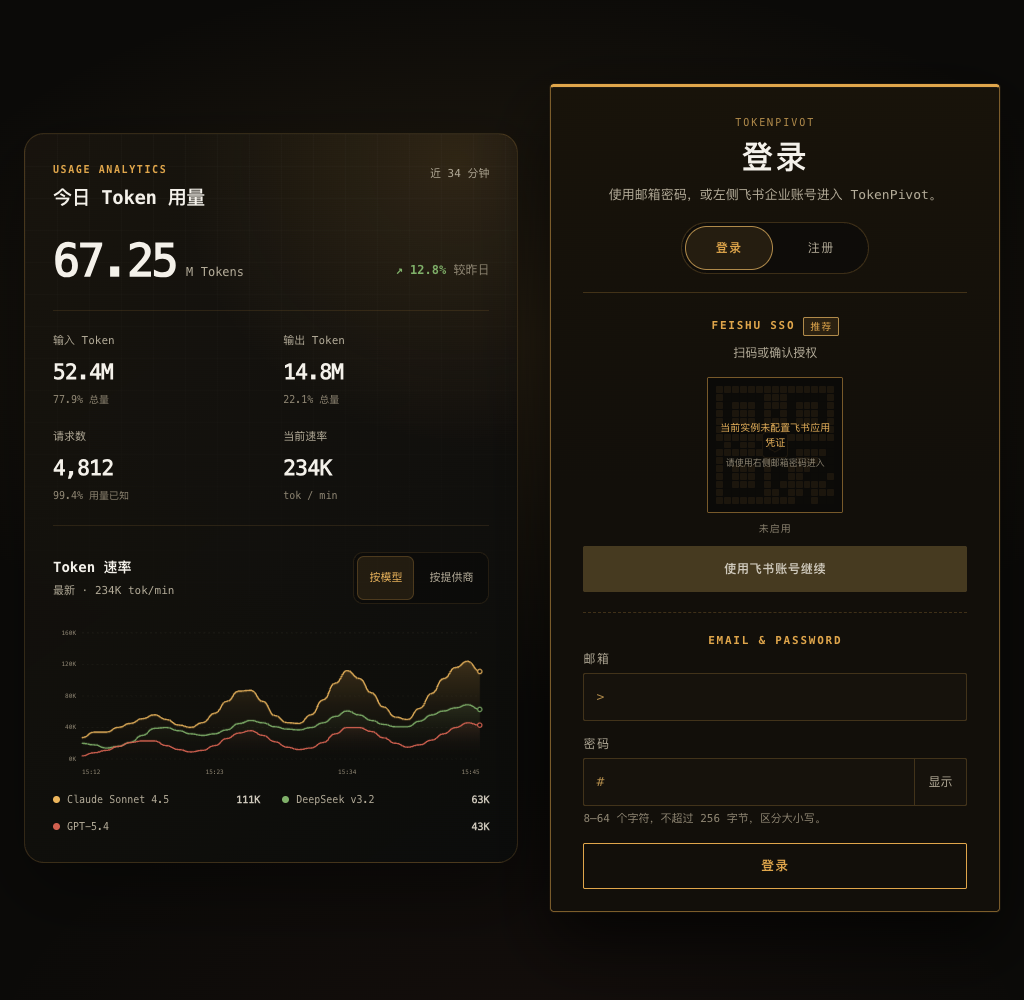
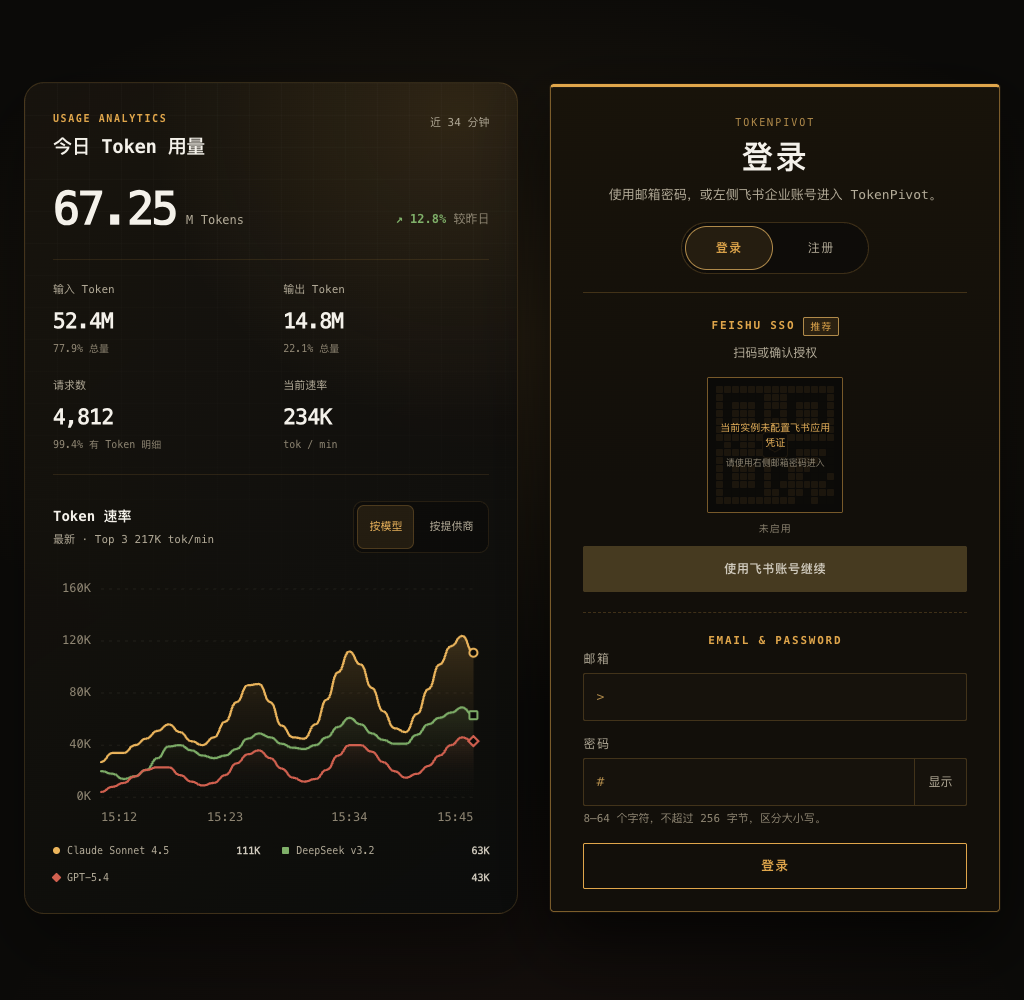
Improve token chart readability and accessibility

diff --git a/web/src/features/auth/auth-dashboard-snapshot.tsx b/web/src/features/auth/auth-dashboard-snapshot.tsx
@@ -1,4 +1,9 @@
-import { useState } from "react";
+import {
+  useEffect,
+  useRef,
+  useState,
+  type KeyboardEvent as ReactKeyboardEvent,
+} from "react";
 
 /** 公开登录页的确定性演示数据，不创建统计或会话请求。 */
 const IN_SERIES: readonly number[] = [
@@ -16,7 +21,7 @@ const TOTAL_SERIES = IN_SERIES.map(
 const METRICS = [
   { label: "输入 Token", value: "52.4M", note: "77.9% 总量" },
   { label: "输出 Token", value: "14.8M", note: "22.1% 总量" },
-  { label: "请求数", value: "4,812", note: "99.4% 用量已知" },
+  { label: "请求数", value: "4,812", note: "99.4% 有 Token 明细" },
   { label: "当前速率", value: "234K", note: "tok / min" },
 ] as const;
 
@@ -56,13 +61,11 @@ const TRENDS: Record<TrendDimension, readonly TrendSeries[]> = {
   ],
 };
 
-const WIDTH = 720;
 const HEIGHT = 260;
 const LEFT = 48;
 const RIGHT = 16;
 const TOP = 18;
 const BOTTOM = 34;
-const PLOT_WIDTH = WIDTH - LEFT - RIGHT;
 const PLOT_HEIGHT = HEIGHT - TOP - BOTTOM;
 const BASE_Y = HEIGHT - BOTTOM;
 const X_LABELS = [
@@ -77,9 +80,13 @@ interface Point {
   y: number;
 }
 
-function makePoints(values: readonly number[], maxY: number): Point[] {
+function makePoints(
+  values: readonly number[],
+  maxY: number,
+  plotWidth: number,
+): Point[] {
   return values.map((value, index) => ({
-    x: LEFT + (index / (values.length - 1)) * PLOT_WIDTH,
+    x: LEFT + (index / (values.length - 1)) * plotWidth,
     y: TOP + (1 - value / maxY) * PLOT_HEIGHT,
   }));
 }
@@ -112,14 +119,52 @@ function formatK(value: number): string {
 export function AuthDashboardSnapshot() {
   const [dimension, setDimension] = useState<TrendDimension>("model");
   const [hovered, setHovered] = useState<number | null>(null);
+  const [chartWidth, setChartWidth] = useState(720);
+  const chartRef = useRef<HTMLDivElement>(null);
   const series = TRENDS[dimension];
   const latest = TOTAL_SERIES.length - 1;
   const active = hovered ?? latest;
+  const plotWidth = chartWidth - LEFT - RIGHT;
+  const selectedTotal = series.reduce(
+    (total, item) => total + (item.values[active] ?? 0),
+    0,
+  );
+
+  useEffect(() => {
+    const element = chartRef.current;
+    if (!element) return;
+    const updateWidth = () => {
+      const width = Math.round(element.clientWidth);
+      if (width > 0) setChartWidth(width);
+    };
+    updateWidth();
+    if (typeof ResizeObserver === "undefined") {
+      window.addEventListener("resize", updateWidth);
+      return () => window.removeEventListener("resize", updateWidth);
+    }
+    const observer = new ResizeObserver(updateWidth);
+    observer.observe(element);
+    return () => observer.disconnect();
+  }, []);
+
   const maxY =
     Math.ceil(Math.max(...series.flatMap((item) => [...item.values])) / 40) *
     40;
   const yTicks = [1, 0.75, 0.5, 0.25, 0];
   const activeTime = hovered === null ? "最新" : `T-${latest - active}m`;
+
+  function handleChartKeyDown(event: ReactKeyboardEvent<HTMLDivElement>) {
+    const { key } = event;
+    if (!["ArrowLeft", "ArrowRight", "Home", "End"].includes(key)) return;
+    event.preventDefault();
+    setHovered((current) => {
+      const base = current ?? latest;
+      if (key === "Home") return 0;
+      if (key === "End") return latest;
+      if (key === "ArrowLeft") return Math.max(0, base - 1);
+      return Math.min(latest, base + 1);
+    });
+  }
 
   return (
     <section className="dash-snapshot" aria-label="TokenPivot Token 用量仪表盘">
@@ -155,8 +200,8 @@ export function AuthDashboardSnapshot() {
         <div className="usage-trend-head">
           <div>
             <h3>Token 速率</h3>
-            <p>
-              {activeTime} · {formatK(TOTAL_SERIES[active] ?? 0)} tok/min
+            <p data-testid="snapshot-readout">
+              {activeTime} · Top 3 {formatK(selectedTotal)} tok/min
             </p>
           </div>
           <div className="usage-tabs" role="group" aria-label="趋势维度">
@@ -177,9 +222,18 @@ export function AuthDashboardSnapshot() {
           </div>
         </div>
 
-        <div className="usage-chart" data-testid="usage-trend-chart">
+        <div
+          ref={chartRef}
+          className="usage-chart"
+          data-testid="usage-trend-chart"
+          role="group"
+          aria-label="历史趋势读数，使用左右方向键"
+          aria-describedby="usage-readout"
+          tabIndex={0}
+          onKeyDown={handleChartKeyDown}
+        >
           <svg
-            viewBox={`0 0 ${WIDTH} ${HEIGHT}`}
+            viewBox={`0 0 ${chartWidth} ${HEIGHT}`}
             role="img"
             aria-label={`${dimension === "model" ? "按模型" : "按提供商"} Token 速率趋势`}
             onMouseLeave={() => setHovered(null)}
@@ -204,7 +258,7 @@ export function AuthDashboardSnapshot() {
               const y = TOP + tick * PLOT_HEIGHT;
               return (
                 <g key={tick} className="usage-grid">
-                  <line x1={LEFT} x2={WIDTH - RIGHT} y1={y} y2={y} />
+                  <line x1={LEFT} x2={chartWidth - RIGHT} y1={y} y2={y} />
                   <text x={LEFT - 10} y={y + 3} textAnchor="end">
                     {formatK(maxY * (1 - tick))}
                   </text>
@@ -215,7 +269,7 @@ export function AuthDashboardSnapshot() {
               <text
                 key={item.label}
                 className="usage-x-label"
-                x={LEFT + (item.index / latest) * PLOT_WIDTH}
+                x={LEFT + (item.index / latest) * plotWidth}
                 y={HEIGHT - 10}
                 textAnchor={
                   item.index === 0
@@ -230,7 +284,10 @@ export function AuthDashboardSnapshot() {
             ))}
 
             {series.map((item) => {
-              const points = makePoints(item.values, maxY);
+              const points = makePoints(item.values, maxY, plotWidth);
+              const markerX = points[active]?.x ?? 0;
+              const markerY = points[active]?.y ?? 0;
+              const markerSize = hovered === null ? 4 : 5;
               return (
                 <g key={`${dimension}-${item.name}`}>
                   <path
@@ -243,12 +300,30 @@ export function AuthDashboardSnapshot() {
                     d={smoothPath(points)}
                     pathLength={1}
                   />
-                  <circle
-                    className={`usage-point usage-${item.tone}`}
-                    cx={points[active]?.x}
-                    cy={points[active]?.y}
-                    r={hovered === null ? 3.5 : 4.5}
-                  />
+                  {item.tone === "amber" ? (
+                    <circle
+                      className="usage-point usage-amber"
+                      cx={markerX}
+                      cy={markerY}
+                      r={markerSize}
+                    />
+                  ) : null}
+                  {item.tone === "green" ? (
+                    <rect
+                      className="usage-point usage-green"
+                      x={markerX - markerSize}
+                      y={markerY - markerSize}
+                      width={markerSize * 2}
+                      height={markerSize * 2}
+                      rx={1}
+                    />
+                  ) : null}
+                  {item.tone === "copper" ? (
+                    <path
+                      className="usage-point usage-copper"
+                      d={`M ${markerX} ${markerY - markerSize - 1} L ${markerX + markerSize + 1} ${markerY} L ${markerX} ${markerY + markerSize + 1} L ${markerX - markerSize - 1} ${markerY} Z`}
+                    />
+                  ) : null}
                 </g>
               );
             })}
@@ -256,8 +331,8 @@ export function AuthDashboardSnapshot() {
             {hovered !== null ? (
               <line
                 className="usage-cursor"
-                x1={LEFT + (active / latest) * PLOT_WIDTH}
-                x2={LEFT + (active / latest) * PLOT_WIDTH}
+                x1={LEFT + (active / latest) * plotWidth}
+                x2={LEFT + (active / latest) * plotWidth}
                 y1={TOP}
                 y2={BASE_Y}
               />
@@ -265,11 +340,9 @@ export function AuthDashboardSnapshot() {
             {TOTAL_SERIES.map((_, index) => (
               <rect
                 key={index}
-                x={
-                  LEFT + (index / latest) * PLOT_WIDTH - PLOT_WIDTH / latest / 2
-                }
+                x={LEFT + (index / latest) * plotWidth - plotWidth / latest / 2}
                 y={TOP}
-                width={PLOT_WIDTH / latest}
+                width={plotWidth / latest}
                 height={PLOT_HEIGHT}
                 fill="transparent"
                 onMouseEnter={() => setHovered(index)}
@@ -287,8 +360,16 @@ export function AuthDashboardSnapshot() {
             </div>
           ))}
         </div>
-        <p className="sr-only" data-testid="snapshot-readout">
-          {activeTime}: {formatK(TOTAL_SERIES[active] ?? 0)} tok/min
+        <p
+          id="usage-readout"
+          className="sr-only"
+          aria-live="polite"
+          aria-atomic="true"
+        >
+          {activeTime}，Top 3 {formatK(selectedTotal)} tok/min；
+          {series
+            .map((item) => `${item.name} ${formatK(item.values[active] ?? 0)}`)
+            .join("，")}
         </p>
       </div>
     </section>

diff --git a/web/src/features/auth/auth-workbench.test.tsx b/web/src/features/auth/auth-workbench.test.tsx
@@ -59,7 +59,7 @@ describe("dashboard snapshot", () => {
       screen.getByRole("img", { name: "按模型 Token 速率趋势" }),
     ).toBeTruthy();
     expect(screen.getByTestId("snapshot-readout").textContent).toBe(
-      "最新: 234K tok/min",
+      "最新 · Top 3 217K tok/min",
     );
     expect(document.querySelector(".shell-bar, .tmux-bar")).toBeNull();
     expect(screen.queryByText(/快捷键/)).toBeNull();
@@ -105,6 +105,32 @@ describe("dashboard snapshot", () => {
         .getAttribute("aria-pressed"),
     ).toBe("true");
   });
+
+  it("reads historical trend values with keyboard navigation", async () => {
+    authorizeEnabled();
+    renderApp("/login");
+    const user = userEvent.setup();
+    const chart = screen.getByRole("group", {
+      name: "历史趋势读数，使用左右方向键",
+    });
+
+    chart.focus();
+    await user.keyboard("{ArrowLeft}");
+    expect(screen.getByTestId("snapshot-readout").textContent).toContain(
+      "T-1m · Top 3",
+    );
+    await user.keyboard("{Home}");
+    expect(screen.getByTestId("snapshot-readout").textContent).toContain(
+      "T-33m · Top 3",
+    );
+    await user.keyboard("{End}");
+    expect(screen.getByTestId("snapshot-readout").textContent).toContain(
+      "T-0m · Top 3",
+    );
+    expect(
+      document.getElementById("usage-readout")?.getAttribute("aria-live"),
+    ).toBe("polite");
+  });
 });
 
 describe("feishu cabin", () => {
@@ -126,11 +152,13 @@ describe("feishu cabin", () => {
         /有效期 (180|179)s/,
       );
     });
-    expect(
-      screen
-        .getByRole("button", { name: "使用飞书账号继续" })
-        .hasAttribute("disabled"),
-    ).toBe(false);
+    await waitFor(() => {
+      expect(
+        screen
+          .getByRole("button", { name: "使用飞书账号继续" })
+          .hasAttribute("disabled"),
+      ).toBe(false);
+    });
   });
 
   it("ignores global launch and refresh shortcuts", async () => {

diff --git a/web/src/features/auth/auth.css b/web/src/features/auth/auth.css
@@ -633,6 +633,12 @@
   margin-top: 18px;
 }
 
+.usage-chart:focus-visible {
+  outline: 2px solid var(--amber);
+  outline-offset: 4px;
+  border-radius: 8px;
+}
+
 .usage-chart svg {
   display: block;
   width: 100%;
@@ -648,11 +654,12 @@
 .usage-grid text,
 .usage-x-label {
   fill: var(--olive-dim);
-  font-size: 10px;
+  font-size: 12px;
 }
 
 .usage-line {
   fill: none;
+  vector-effect: non-scaling-stroke;
   stroke-width: 2.25;
   stroke-linecap: round;
   stroke-linejoin: round;
@@ -677,6 +684,7 @@
 }
 
 .usage-point {
+  vector-effect: non-scaling-stroke;
   stroke-width: 2;
   transition: r 120ms ease;
 }
@@ -751,17 +759,20 @@
   width: 7px;
   height: 7px;
   flex: 0 0 auto;
-  border-radius: 50%;
 }
 
 .usage-dot.usage-amber {
+  border-radius: 50%;
   background: var(--amber-bright);
 }
 .usage-dot.usage-green {
+  border-radius: 1px;
   background: var(--green);
 }
 .usage-dot.usage-copper {
+  border-radius: 1px;
   background: var(--copper);
+  transform: rotate(45deg);
 }
 
 @keyframes usage-draw {
